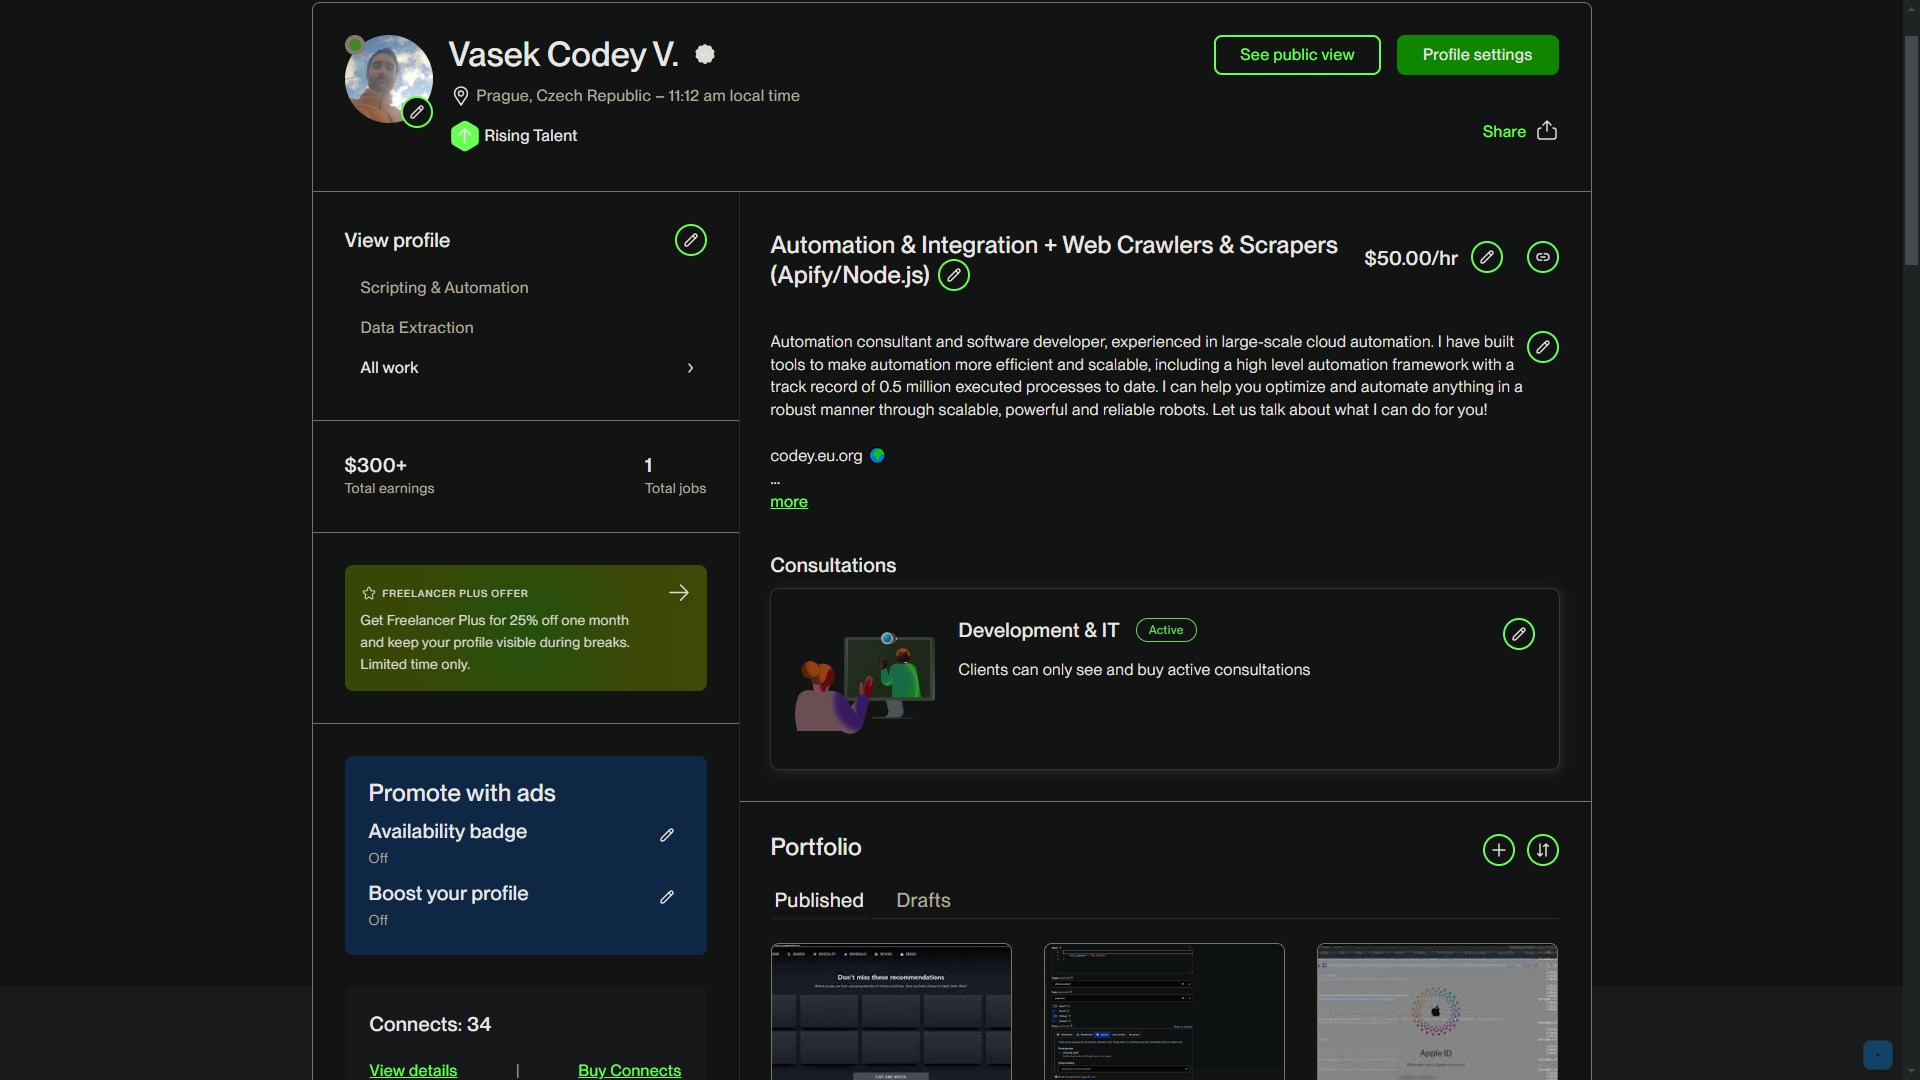
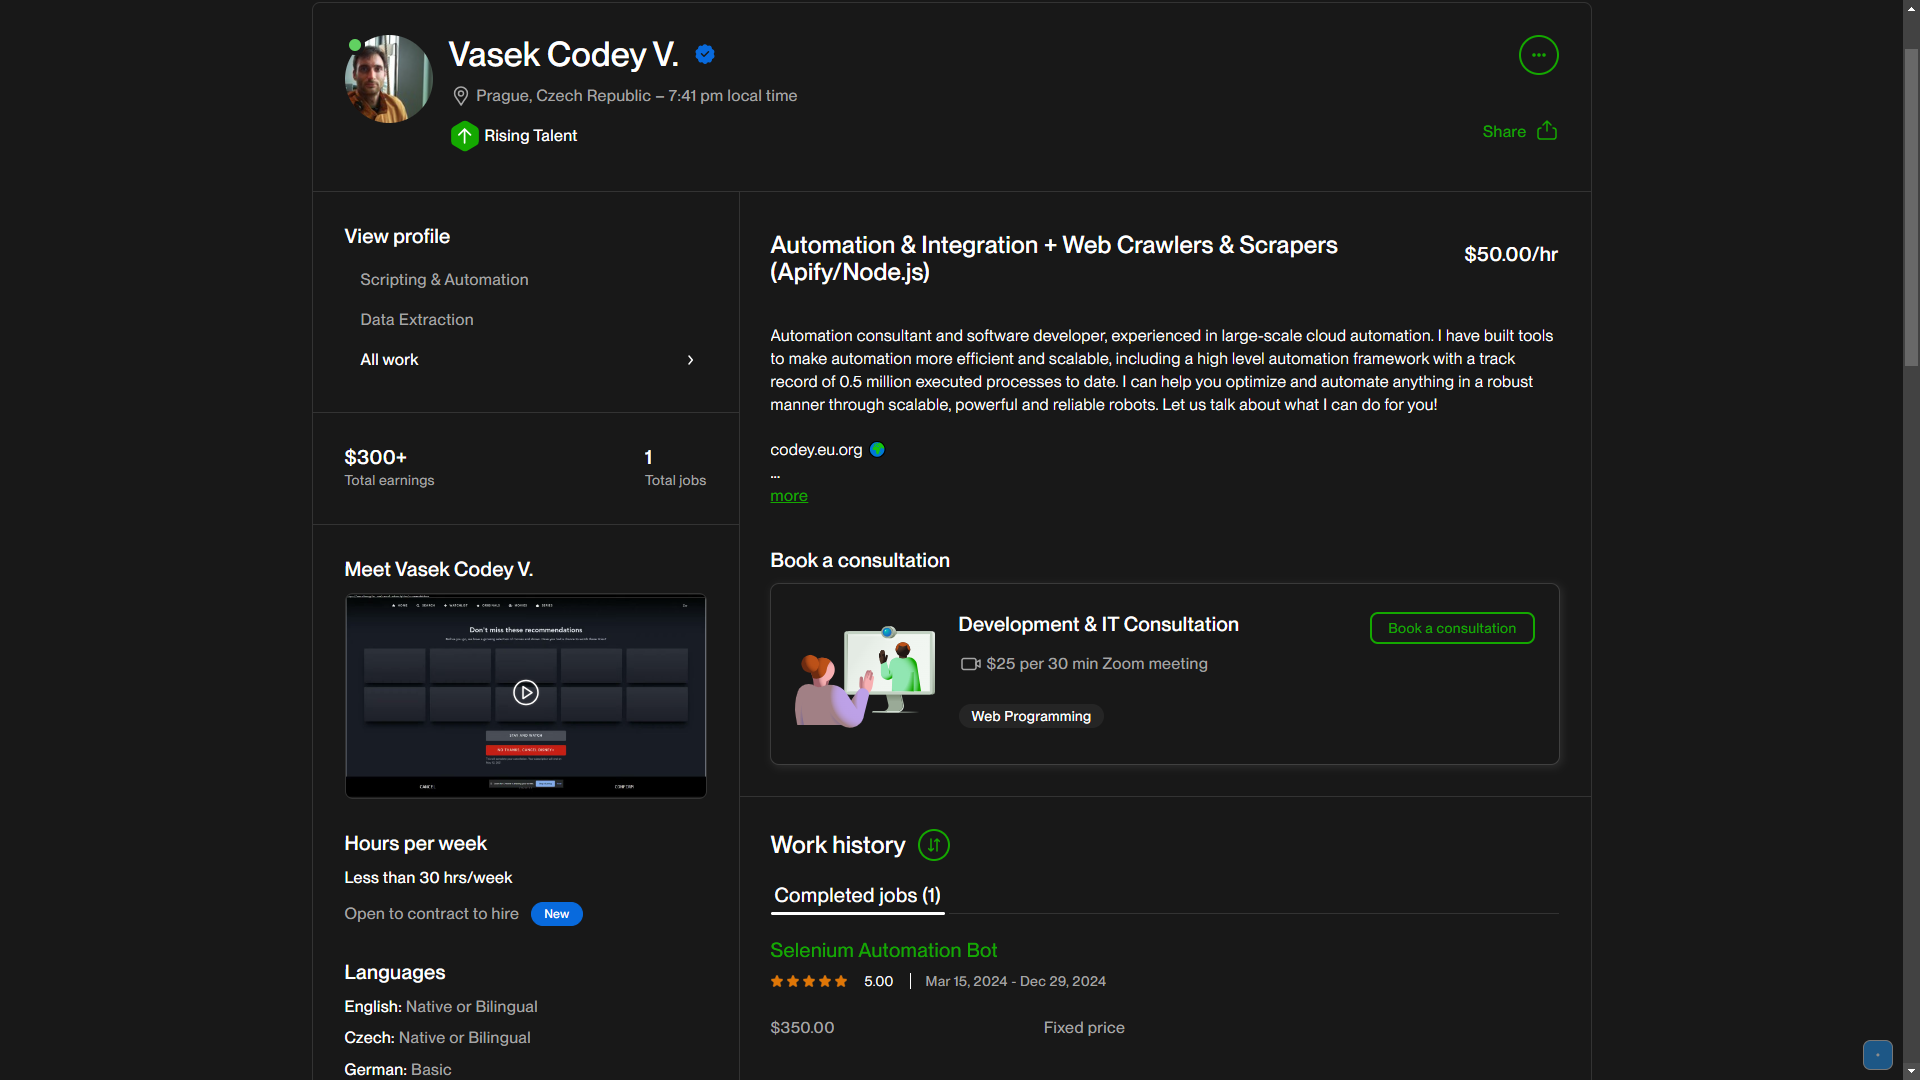
.

diff --git a/_docs/cover.md b/_docs/cover.md
@@ -1,7 +1,7 @@
 <!-- _coverpage.md -->
 
 # Codey
-![logo](_docs/media/avatar.jpeg)
+![logo](_docs/media/avatar.jpg)
 
 > Welcome!
 
